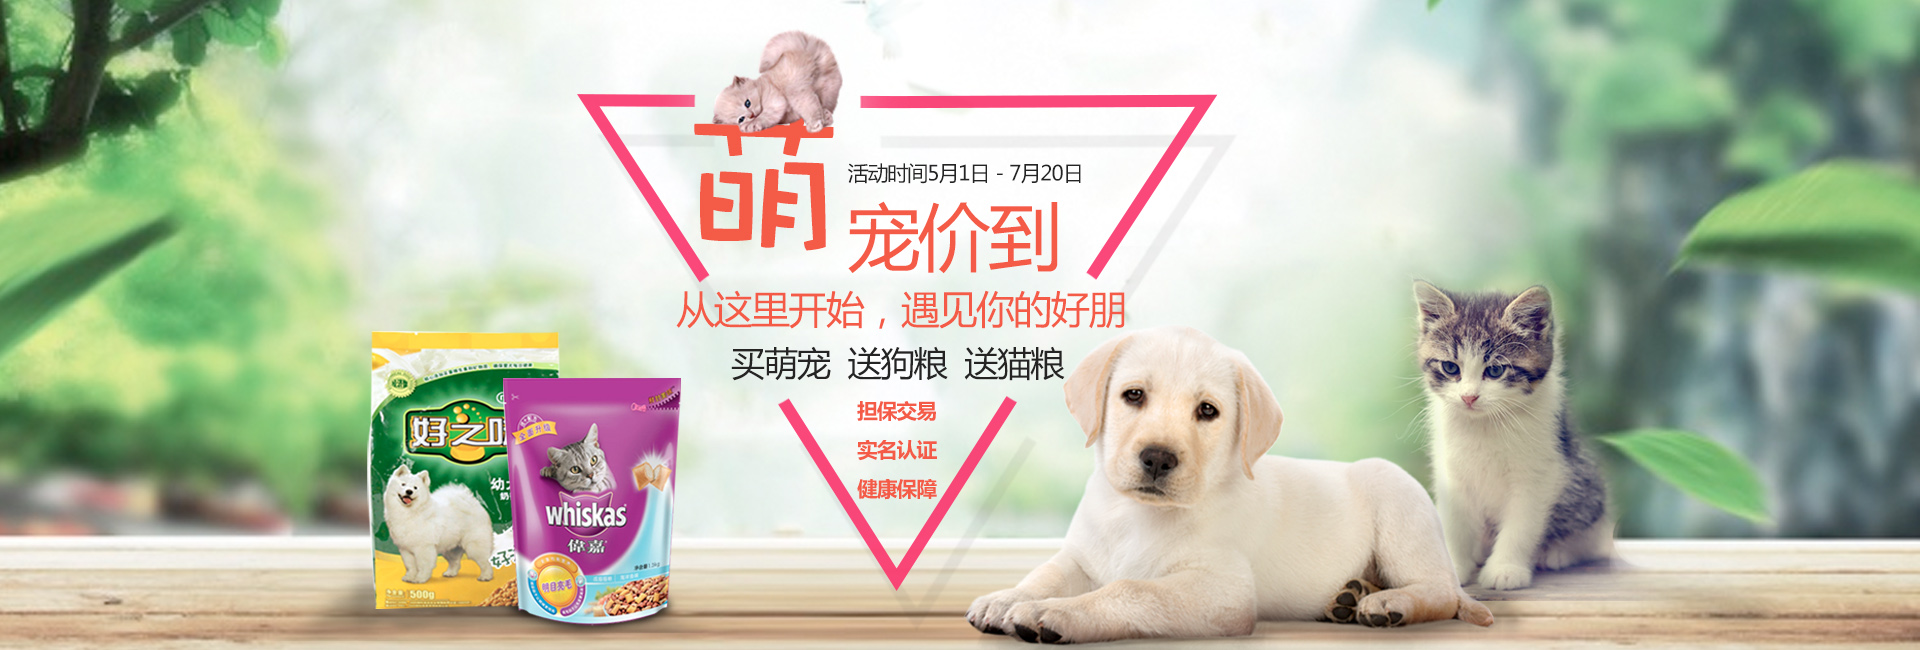
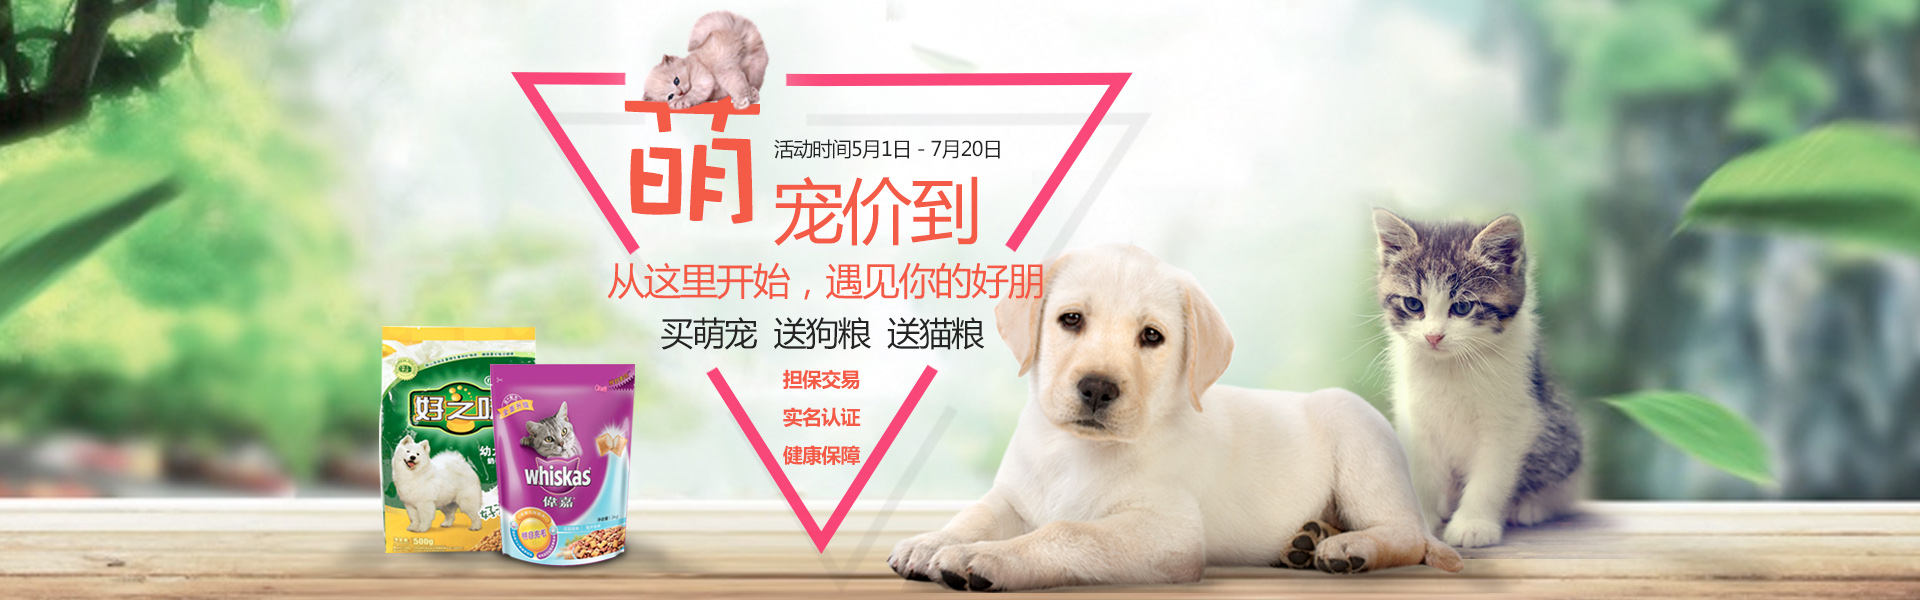
5月12日，下午提交

diff --git a/index.html b/index.html
@@ -6,6 +6,7 @@
     <link rel="stylesheet" href="css/reset.css">
     <link rel="stylesheet" href="css/base.css">
     <link rel="stylesheet" href="css/index.css">
+    <script src="js/jquery-1.12.4.min.js"></script>
 
 </head>
 <body>
@@ -46,17 +47,13 @@
         </div>
         <div class="logo_search">
             <span>宝贝</span>
-            <input type="text" placeholder="请输入关键字" id="logo_search">
+            <input type="text" placeholder="请输入关键字" id="logo_search" class="img">
             <button>搜索</button>
         </div>
         <div class="logo_customization">
             <a href="javascript:;">快速定制</a>
             <p><span>2568970</span>人参加了定制</p>
         </div>
-
-
-
-
     </div>
 <!--导航栏-->
     <div class="nav">
@@ -72,13 +69,15 @@
         </ul>
     </div>
 <!--轮播图-->
-    <div class="banner">
+    <div class="banner" id="b04">
         <ul>
             <li><a href="javascript:;"><img src="img/banner1.jpg" alt=""></a></li>
             <li><a href="javascript:;"><img src="img/banner2.jpg" alt=""></a></li>
             <li><a href="javascript:;"><img src="img/banner3.jpg" alt=""></a></li>
             <li><a href="javascript:;"><img src="img/banner4.jpg" alt=""></a></li>
         </ul>
+        <a href="javascript:;" class="unslider-arrow04 prev"><img class="arrow" id="al" src="img/prev.png" alt=""></a>
+        <a href="javascript:;" class="unslider-arrow04 next"><img class="arrow" id="ar" src="img/next.png" alt=""></a>
     </div>
 <!--皇家宠粮-->
     <div class="main01">
@@ -118,7 +117,6 @@
             </div>
         </div>
     </div>
-
 
 
 </body>

diff --git a/css/index.css b/css/index.css
@@ -3,12 +3,12 @@ body{
 }
 .banner{
     width: 100%;
-    height: 650px;
+    height: 600px;
     overflow: hidden;
     position: relative;
 }
 .banner ul{
-    width: 9600px;
+    width: 7680px;
     height: 100%;
     position: absolute;
     left: 50%;
@@ -20,6 +20,7 @@ body{
     height: 100%;
     float: left;
 }
+
 
 /*皇家宠粮样式*/
 .main01{
@@ -72,9 +73,9 @@ body{
     margin-right: 4px;
 }
 .royal_food .content:hover{
-    -webkit-box-shadow: inset 0 0 5px #ff6a55;
-    -moz-box-shadow: inset 0 0 5px #ff6a55;
-    box-shadow: inset 0 0 5px #ff6a55;
+    -webkit-box-shadow: inset 0 0 5px #333;
+    -moz-box-shadow: inset 0 0 5px #333;
+    box-shadow: inset 0 0 5px #333;
 }
 .royal_food .content:hover .title{
     -webkit-transition: all 0.5s;

diff --git a/js/base.js b/js/base.js
@@ -1,10 +1,12 @@
 (function(){
+    //搜索框里放大镜效果
     var logoSearch=document.getElementById("logo_search");
-        logoSearch.onchange=function(){
-            if (logoSearch.value!="") {
-                logoSearch.style.background="none";
+        logoSearch.oninput=function(){
+            if (this.value!="") {
+                this.className="";
+            }else{
+                this.className="img";
             }
         }
-
 
 })();

diff --git a/css/base.css b/css/base.css
@@ -89,10 +89,12 @@
 .logo_search input{
     width: 310px;
     height: 100%;
-    padding-left: 20px;
     float: left;
+    padding-left: 20px;
     border: none;
     outline: none;
+}
+.logo_search .img{
     background: url("../img/search.png") no-repeat 5px 12px;
 }
 .logo_search button{
